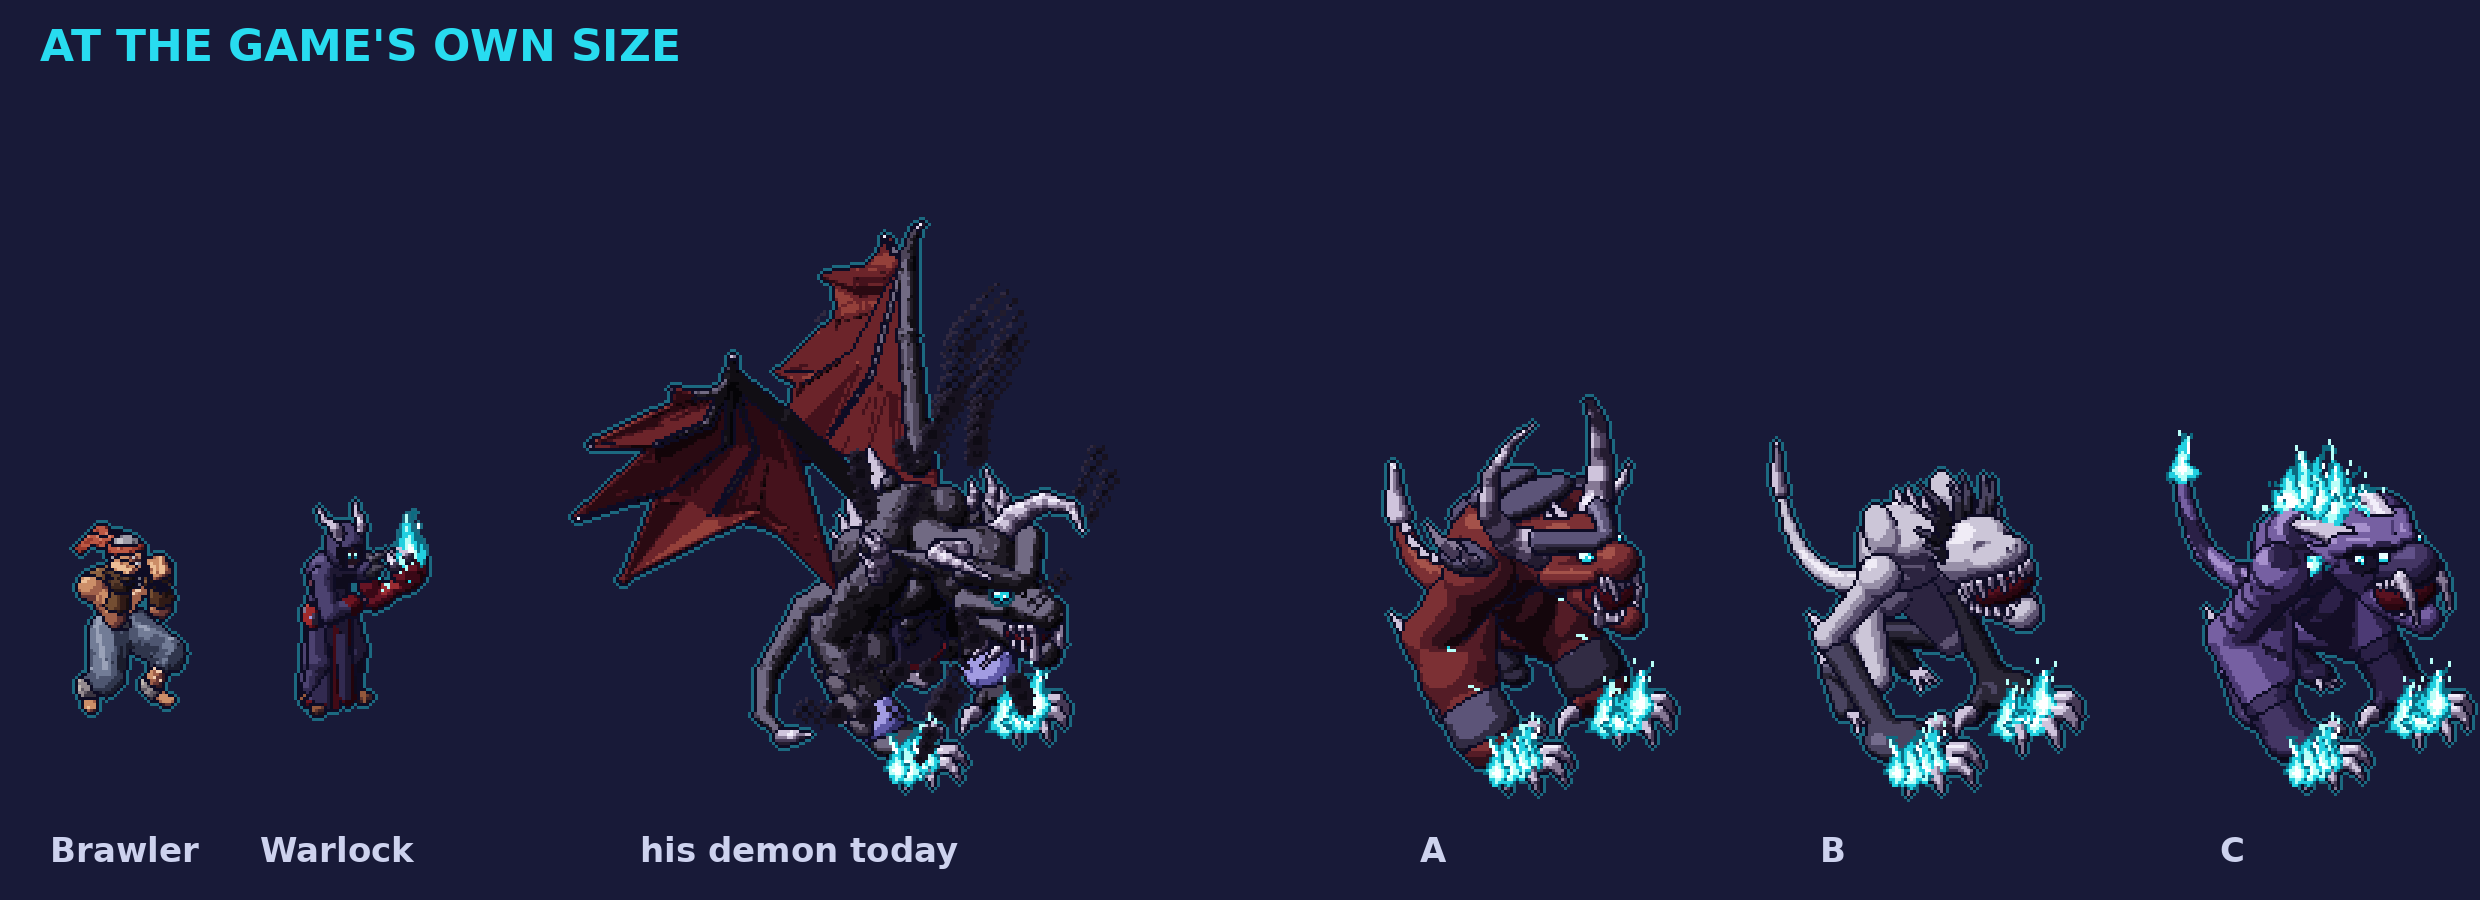
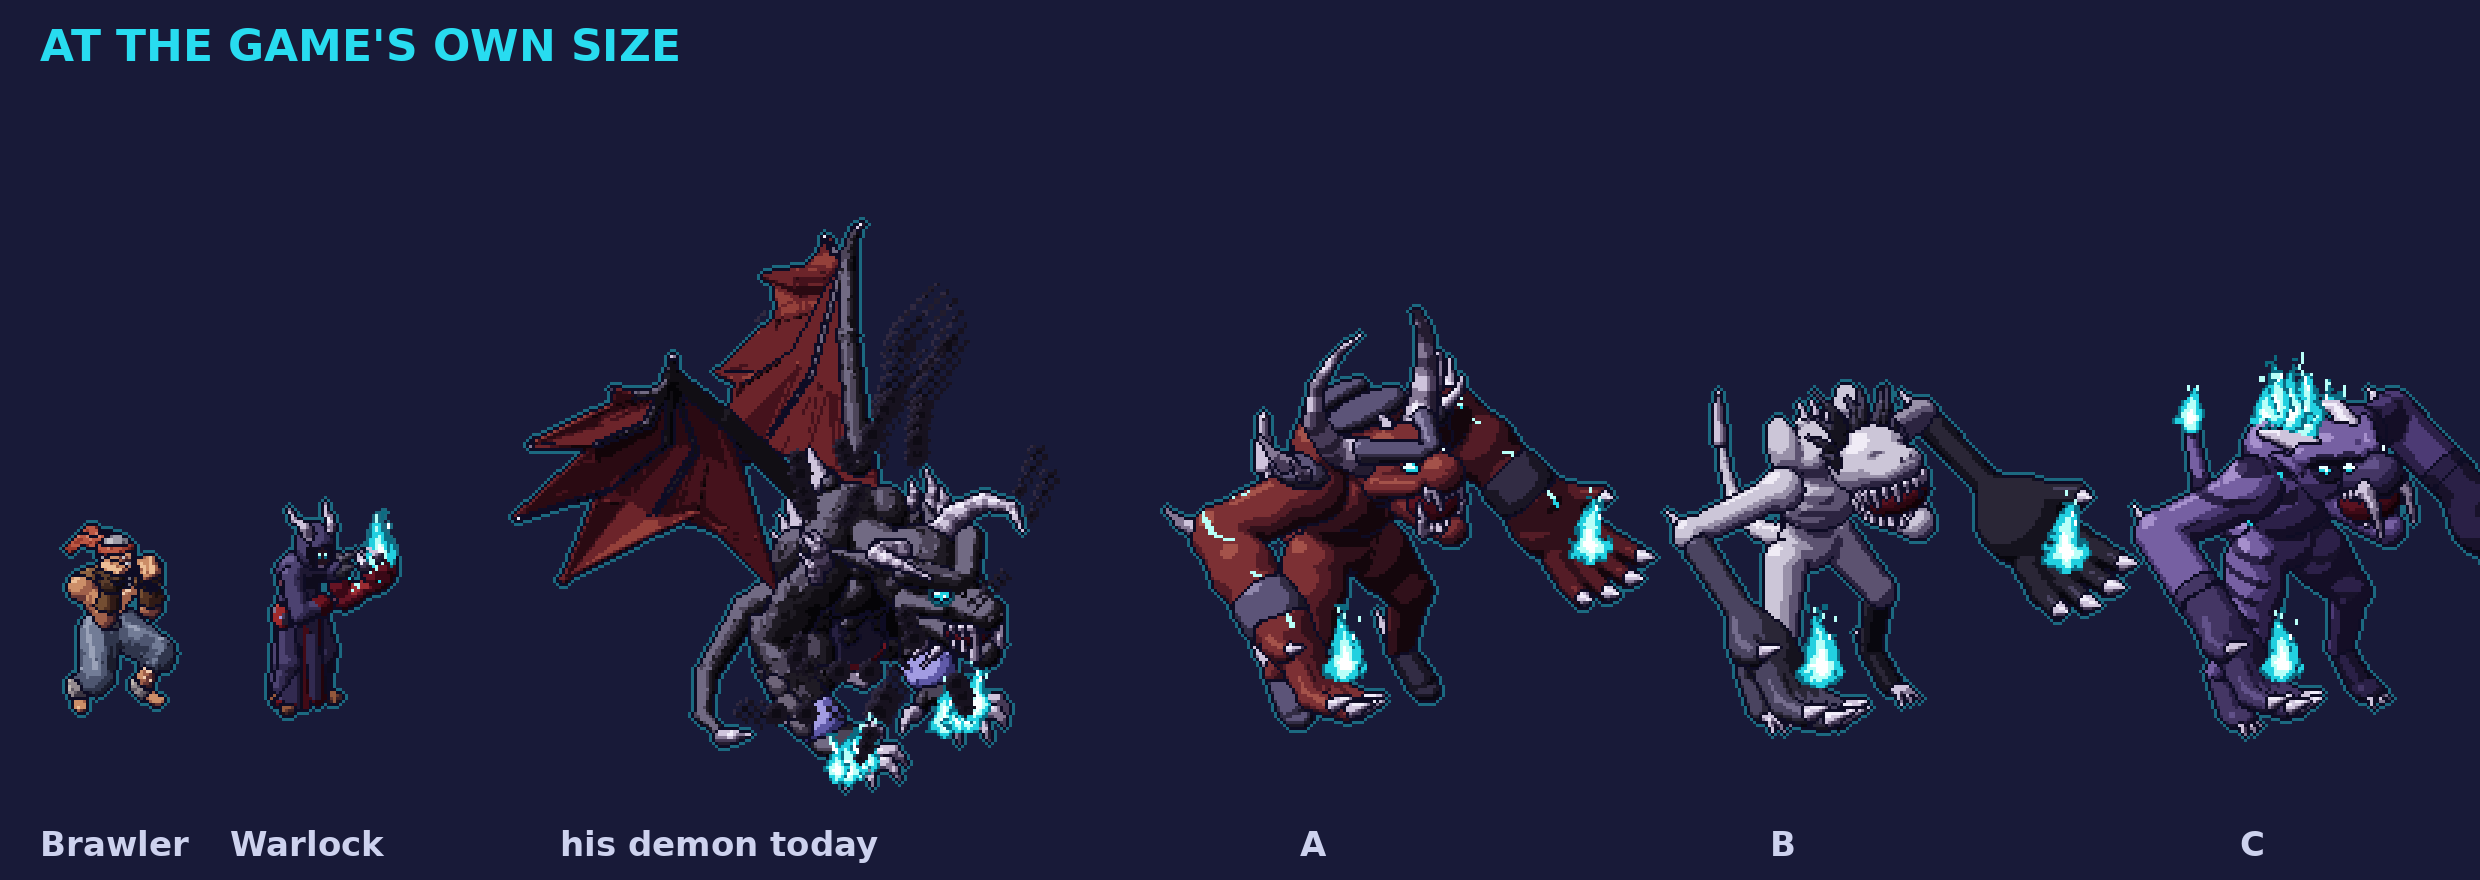
The new demons drawn both ways: up on two legs to fight, down on all fours to run
His words, 11 Nov 2026: "I like that he's on all fours, but really only when he's running around.  Like he's up on two legs to do really wide slashes with his claws, then when running he drops down to all fours like a feral beast". DEMON_UP, a new stance on the game's demon's bones; the pictures made again (docs/mockups/warlock_up2/README.md).

Claude-Session: https://claude.ai/code/session_01JYSqoVCyrBtLKksDvfh6Tj

diff --git a/src/dev/demon_new.ts b/src/dev/demon_new.ts
@@ -12,6 +12,13 @@
 // one he picks: only what is sculpted on the bones is new. What he asked of the demon before is kept on every one: on all
 // fours, a gorilla's long arms, its claws flat on the floor burning with the friend's cyan fire.
 //
+// SHOWN THE FIRST THREE ON ALL FOURS and asked which, his words instead (11 Nov): “I like that he’s on all fours, but really
+// only when he’s running around.  Like he’s up on two legs to do really wide slashes with his claws, then when running he
+// drops down to all fours like a feral beast”. Read as (told him so): standing and fighting it is UP ON TWO LEGS, so its
+// claws can swing in really wide slashes; running it drops to all fours, its run as it is. So each is drawn both ways: up on
+// two legs, its claws out and burning (DEMON_UP, a new stance on the same bones), and running on all fours (the game's run).
+// Of wings, asked whether to keep it without: “Maybe, we’ll see what you come up with”.
+//
 // HOW THEY ARE DRAWN, against what was wrong: a few big forms a body, not dozens of small lumps (the game's demon is some 150
 // solids, its body a tangle of them); each stuff its own colour and three clear tones, light enough to read on a dark floor;
 // the far limbs a tone darker than the near; a head a size bigger, its face made of a few bold marks that read at the game's
@@ -21,13 +28,13 @@ import type { Ramp } from '../art/kit';
 import { CYAN } from '../art/kit';
 import { FRIEND_RIM } from '../art/hero3_knight';
 import type { GameView, PaintView } from '../art/skin';
-import { add, cross, lerp3, mul, norm, solve, sub } from '../art/skeleton';
+import { add, cross, elbowFor, lerp3, mul, norm, solve, standing, sub } from '../art/skeleton';
 import type { Bones, Posed, Rot, Skeleton, V3 } from '../art/skeleton';
 import { Sculpt, draw, onCone } from './sculpt';
 import type { Cone, Drawn, Hit } from './sculpt';
 import { IVORY } from './sculpt_warlock';
 import { demonHand, tone5 } from './sculpt_demon';
-import { DEMON_B, RIG_CANVAS, demonAura, fireBehind } from './sculpt_demon_rig';
+import { DEMON_B, RIG_CANVAS, clawHand, demonAura, fireBehind } from './sculpt_demon_rig';
 
 export type NewDemon = 'pact' | 'pale' | 'mane';
 export const NEW_DEMONS: { id: NewDemon; name: string; says: string }[] = [
@@ -35,6 +42,24 @@ export const NEW_DEMONS: { id: NewDemon; name: string; says: string }[] = [
   { id: 'pale', name: 'B. The Pale Crawler', says: 'gaunt and bone-white, no eyes, a mouth from ear to ear, a crown of black thorns, its arms dipped in soot' },
   { id: 'mane', name: 'C. The Burning Mane', says: 'a dusk-violet beast with four eyes and sabre fangs, a mane of his cyan hellfire down its neck and back' },
 ];
+
+/**
+ * UP ON TWO LEGS (his word, 11 Nov: “he’s up on two legs to do really wide slashes with his claws”): on the game's demon's own
+ * bones. Crouched on its goat legs, one foot before the other; hunched high, its head thrust out; its long arms held out wide
+ * and low, elbows back, its claws open and turned up, burning: ready to swing.
+ */
+export const DEMON_UP: Bones = (() => {
+  const q: Bones = {
+    ...standing(DEMON_B),
+    px: 0, pz: -6, pitch: 1, bend: 7, hunch: 28, shrug: 0.5, faceUp: 2,
+    lhIn: 1, lhx: 14, lhy: 35, lhz: -29,
+    rhIn: 1, rhx: 20, rhy: -34, rhz: -24,
+    lfx: 7, lfy: 4, rfx: -8, rfy: -4, lk: 18, rk: -18,
+  } as Bones;
+  q.le = elbowFor(DEMON_B, q as Posed, true, [-10, 6, 3]);
+  q.re = elbowFor(DEMON_B, q as Posed, false, [-10, -6, 3]);
+  return q;
+})();
 
 const U: V3 = [0, 0, 1];
 const dot = (a: V3, b: V3): number => a[0] * b[0] + a[1] * b[1] + a[2] * b[2];
@@ -82,6 +107,8 @@ interface Kit {
   far: (piece: string) => boolean;
   /** Its tail swung to its left (radians). */
   tail: number;
+  /** Its claws its feet (running on all fours): each drawn as a claw on the floor however high it swings. */
+  paws: boolean;
 }
 
 /** A material whose far limbs are a tone darker (as the heroes' far limbs are), with a painter of its own after that. */
@@ -115,7 +142,11 @@ function spike(k: Kit, mat0: number, piece: string, pts: V3[], r0: number, tag =
   }
 }
 
-/** Its two claws flat on the floor (dev/sculpt_demon.ts demonHand: a hand built as a hand, his word of 24 Oct), and their fires. */
+/**
+ * Its two claws. On the floor (or running on them), flat and spread, his fire under each palm licking out between its fingers
+ * (dev/sculpt_demon.ts demonHand: a hand built as a hand, his word of 24 Oct; the fire his of 27 Oct). Off the floor, up on
+ * two legs: a hand of claws held open (dev/sculpt_demon_rig.ts clawHand), its palm turned up and forward, his fire in it.
+ */
 function claws(k: Kit, hide: number, talon: number, scale: number, out: Built): void {
   const { s, sc } = k;
   const fh = norm([s.hips[0][0], s.hips[0][1], 0], [1, 0, 0]);
@@ -123,10 +154,16 @@ function claws(k: Kit, hide: number, talon: number, scale: number, out: Built): 
     const piece = side > 0 ? 'armL' : 'armR';
     const ha = side > 0 ? s.handL : s.handR;
     const el = side > 0 ? s.elbowL : s.elbowR;
-    const planted = ha[2] < 14;
-    const up = planted ? Math.max(0, ha[2] - 7) : 0;
-    demonHand(sc, hide, talon, piece, ha, el, false, scale, planted ? fh : undefined, planted && side < 0, up);
-    if (!planted) continue;
+    const planted = k.paws || ha[2] < 14;
+    if (!planted) {
+      const palmWay = norm(add(mul(fh, 0.75), add([0, 0, 0.55], mul(cross(U, fh), -side * 0.35))));
+      const tips = clawHand(sc, hide, talon, piece, ha, el, palmWay, 3.1 * scale, side < 0);
+      const mid = mul(tips.reduce((a, b) => add(a, b), [0, 0, 0] as V3), 1 / tips.length);
+      out.flames.push({ p: add(lerp3(ha, mid, 0.55), mul(palmWay, 3.5 * scale)), size: 4.4 * scale, deep: 14 });
+      continue;
+    }
+    const up = Math.max(0, ha[2] - 7);
+    demonHand(sc, hide, talon, piece, ha, el, false, scale, fh, side < 0, up);
     const S = 1.45 * scale;
     const acr = norm(cross(U, fh));
     const thumbW = side < 0 ? acr : mul(acr, -1);
@@ -350,7 +387,7 @@ function noPixelAlone(d: Drawn): void {
 }
 
 /** A new demon at a moment: on the game's demon's bones in a pose, from in front or behind (as the camera truly sees it), turned `turn`. */
-export function newDemonFrame(kind: NewDemon, view: GameView, pose: Bones, turn = 0, t = 2, tail = 0): Drawn {
+export function newDemonFrame(kind: NewDemon, view: GameView, pose: Bones, turn = 0, t = 2, tail = 0, paws = false): Drawn {
   const pv: PaintView = view === 'back' ? 'rear' : view;
   const s = solve(DEMON_B, pose as Posed);
   const sc = new Sculpt();
@@ -362,7 +399,7 @@ export function newDemonFrame(kind: NewDemon, view: GameView, pose: Bones, turn 
     return pv === 'front' ? 0.612 * (q[0] - q[1]) + 0.5 * q[2] : 0.612 * (-q[0] - q[1]) + 0.5 * q[2];
   };
   const farL = nearOf(add(s.pelvis, [0, 20, 6])) < nearOf(s.pelvis);
-  const k: Kit = { sc, s, far: (piece) => (piece.endsWith('L') ? farL : piece.endsWith('R') ? !farL : false), tail };
+  const k: Kit = { sc, s, far: (piece) => (piece.endsWith('L') ? farL : piece.endsWith('R') ? !farL : false), tail, paws };
   const built = kind === 'pact' ? pactInto(k) : kind === 'pale' ? paleInto(k) : maneInto(k);
   const d = draw(sc, pv, RIG_CANVAS.ax, RIG_CANVAS.ay, RIG_CANVAS, undefined, FRIEND_RIM);
   built.flames.forEach((f, i) => fireBehind(d, sc.at(f.p), f.size, t + i * 0.37, f.deep ?? 10));

diff --git a/tools/demon_new_pics.ts b/tools/demon_new_pics.ts
@@ -12,7 +12,7 @@ import type { Px } from '../src/engine/px';
 import { demonMoves, demonPose, drawDemonAt } from '../src/dev/demon_moves';
 import { drawWarlockAt, warlockMoves } from '../src/dev/warlock_moves';
 import { makeVeteranArt } from '../src/art/veteran_art';
-import { newDemonFrame } from '../src/dev/demon_new';
+import { DEMON_UP, newDemonFrame } from '../src/dev/demon_new';
 import type { NewDemon } from '../src/dev/demon_new';
 import type { Bones } from '../src/art/skeleton';
 import { paintWithoutCanvas, paintingOf } from '../tests/helpers';
@@ -70,7 +70,15 @@ const views = (process.argv[4] ?? 'front').split(',') as ('front' | 'back')[];
 /** The moment of its stand the pictures show (a breath, both claws down). */
 const T = 0.3;
 const stand = demonMoves()[0];
-for (const kind of kinds) for (const v of views) save(`${dir}/new_${kind}_${v}.png`, newDemonFrame(kind, v, demonPose(stand.motion, T) as Bones, 0, T, stand.tail ? stand.tail(T) : 0).px);
+const run = demonMoves()[1];
+/** The moment of its run the pictures show (stretched out longest in its leap: 0.6 s of its 0.7 s round). */
+const RUN_T = Number(process.argv[5] ?? 0.6);
+for (const kind of kinds) for (const v of views) {
+  // (up on two legs, his word of 11 Nov; running on all fours, the game's run; and standing on all fours, as first shown)
+  save(`${dir}/new_${kind}_up_${v}.png`, newDemonFrame(kind, v, DEMON_UP, 0, T, 0.25).px);
+  save(`${dir}/new_${kind}_run_${v}.png`, newDemonFrame(kind, v, demonPose(run.motion, RUN_T) as Bones, 0, RUN_T, run.tail ? run.tail(RUN_T) : 0, true).px);
+  save(`${dir}/new_${kind}_${v}.png`, newDemonFrame(kind, v, demonPose(stand.motion, T) as Bones, 0, T, stand.tail ? stand.tail(T) : 0).px);
+}
 // (the game's demon as it is, anchored 180, 276; the Warlock, 84, 132; the Brawler, 18, 60: all two picture pixels a game pixel)
 for (const v of views) save(`${dir}/demon_today_${v}.png`, drawDemonAt(v, stand, T).px);
 save(`${dir}/warlock_front.png`, drawWarlockAt('front', warlockMoves()[0], 0.6).px);

diff --git a/tools/demon_new_pics.py b/tools/demon_new_pics.py
@@ -1,7 +1,7 @@
 # THE NEW DEMONS: THE PICTURES LAID OUT FOR A PHONE HELD SIDEWAYS (the Warlock chat, 11 Nov 2026).
 #   python3 tools/demon_new_pics.py <dir of tools/demon_new_pics.ts> <out dir>
-# Writes three_new_demons.png (each five times as big) and new_demons_at_game_size.png (three screen pixels a picture
-# pixel, as his phone shows the game), each wider than tall (his word of a tall sheet, 9 Nov).
+# Writes new_demons_on_two_legs.png and new_demons_running.png (each four times as big) and new_demons_at_game_size.png
+# (three screen pixels a picture pixel, as his phone shows the game), each wider than tall (his word of a tall sheet, 9 Nov).
 import sys
 from PIL import Image, ImageDraw, ImageFont
 
@@ -12,6 +12,7 @@ f1 = ImageFont.truetype(BOLD, 44)
 f2 = ImageFont.truetype(PLAIN, 30)
 f3 = ImageFont.truetype(BOLD, 34)
 BG = (24, 26, 56, 255)
+PANEL = (30, 33, 68, 255)
 CYAN = (40, 220, 240)
 TEXT = (205, 210, 238)
 NEW = [
@@ -21,34 +22,44 @@ NEW = [
 ]
 load = lambda n: Image.open(f'{src}/{n}.png').convert('RGBA')
 
-# ---- the three, five times as big
-S = 5
-box = (112, 170, 258, 314)
-cw, ch = (box[2] - box[0]) * S, (box[3] - box[1]) * S
-sheet = Image.new('RGBA', (cw * 3 + 40 * 4, ch + 220), BG)
-d = ImageDraw.Draw(sheet)
-for i, (k, title, lines) in enumerate(NEW):
-    x = 40 + i * (cw + 40)
-    d.rectangle([x, 84, x + cw, 84 + ch], fill=(30, 33, 68, 255))
-    sheet.alpha_composite(load(f'new_{k}_front').crop(box).resize((cw, ch), Image.NEAREST), (x, 84))
-    d.text((x, 18), title, font=f1, fill=CYAN)
-    for j, l in enumerate(lines):
-        d.text((x, 84 + ch + 12 + j * 36), l, font=f2, fill=TEXT)
-sheet.convert('RGB').save(f'{out}/three_new_demons.png')
+
+def three(pose, head, name, S=4, lines=True):
+    """The three in one pose, each in a panel of one size, `S` times as big."""
+    ims = [load(f'new_{k}_{pose}_front') for k, _, _ in NEW]
+    bs = [i.getbbox() for i in ims]
+    box = (min(b[0] for b in bs) - 4, min(b[1] for b in bs) - 4, max(b[2] for b in bs) + 4, max(b[3] for b in bs) + 4)
+    cw, ch = (box[2] - box[0]) * S, (box[3] - box[1]) * S
+    foot = 124 if lines else 20
+    sheet = Image.new('RGBA', (cw * 3 + 40 * 4, ch + 150 + foot), BG)
+    d = ImageDraw.Draw(sheet)
+    d.text((40, 16), head, font=f1, fill=CYAN)
+    for i, (k, title, says) in enumerate(NEW):
+        x = 40 + i * (cw + 40)
+        d.rectangle([x, 130, x + cw, 130 + ch], fill=PANEL)
+        sheet.alpha_composite(ims[i].crop(box).resize((cw, ch), Image.NEAREST), (x, 130))
+        d.text((x, 80), title, font=f3, fill=TEXT)
+        if lines:
+            for j, l in enumerate(says):
+                d.text((x, 130 + ch + 12 + j * 36), l, font=f2, fill=TEXT)
+    sheet.convert('RGB').save(f'{out}/{name}.png')
+
+
+three('up', 'UP ON TWO LEGS: STANDING AND FIGHTING', 'new_demons_on_two_legs')
+three('run', 'DOWN ON ALL FOURS: RUNNING', 'new_demons_running', lines=False)
 
 # ---- at the game's own size, beside the game's demon, the Warlock and the Brawler (each on one floor line)
 S = 3
-W, H, floor = 2480, 900, 700
+W, H, floor = 2480, 880, 700
 sh = Image.new('RGBA', (W, H), BG)
 d = ImageDraw.Draw(sh)
 def put(im, ax, ay, x):
     sh.alpha_composite(im.resize((im.width * S, im.height * S), Image.NEAREST), (x - ax * S, floor - ay * S))
-put(load('brawler_front'), 18, 60, 120)
-put(load('warlock_front'), 84, 132, 330)
-put(load('demon_today_front'), 180, 276, 880)
+put(load('brawler_front'), 18, 60, 110)
+put(load('warlock_front'), 84, 132, 300)
+put(load('demon_today_front'), 180, 276, 820)
 for i, (k, _, _) in enumerate(NEW):
-    put(load(f'new_{k}_front'), 180, 276, 1480 + i * 400)
+    put(load(f'new_{k}_up_front'), 180, 276, 1340 + i * 470)
 d.text((40, 20), "AT THE GAME'S OWN SIZE", font=f1, fill=CYAN)
-for x, t in [(50, 'Brawler'), (260, 'Warlock'), (640, 'his demon today'), (1420, 'A'), (1820, 'B'), (2220, 'C')]:
-    d.text((x, floor + 130), t, font=f3, fill=TEXT)
+for x, t in [(40, 'Brawler'), (230, 'Warlock'), (560, 'his demon today'), (1300, 'A'), (1770, 'B'), (2240, 'C')]:
+    d.text((x, floor + 124), t, font=f3, fill=TEXT)
 sh.convert('RGB').save(f'{out}/new_demons_at_game_size.png')

diff --git a/docs/mockups/warlock_up2/README.md b/docs/mockups/warlock_up2/README.md
@@ -51,9 +51,9 @@ THE DEMON: A NEW DESIGN ON THE SAME MOVES.
 
 ## The three new demons shown him (`src/dev/demon_new.ts`; FIRST SCULPTS, FROM IN FRONT ONLY, TO CHOOSE A DIRECTION)
 
-Each on the game's demon's bones in its own stand (0.3 s in), none winged. Drawn against what he ticked: a few big forms a
-body where the game's demon is some 150 small solids; each stuff its own colour, light enough to read on a dark floor; the
-far limbs a tone darker; a bigger head, its face a few bold marks, lifted toward the eye so it is seen from above.
+Each on the game's demon's bones, none winged. Drawn against what he ticked: a few big forms a body where the game's demon
+is some 150 small solids; each stuff its own colour, light enough to read on a dark floor; the far limbs a tone darker; a
+bigger head, its face a few bold marks, lifted toward the eye so it is seen from above.
 
 - **A. THE PACT MADE FLESH**: his demon arm grown over all of him. Old-blood hide (his arm's red, duller); black horn grown
   as armour down its back and over its shoulders, blades of bone off it; two great crescent horns (his hood's two, grown); a
@@ -64,16 +64,35 @@ far limbs a tone darker; a bigger head, its face a few bold marks, lifted toward
   two sabre fangs; short horns swept back; a mane of his cyan hellfire round its neck, down its back and at the tip of its
   tail.
 
+SHOWN FIRST STANDING ON ALL FOURS (the game's stand), asked which to take forward (our pick B) and whether to keep it without
+wings. HIS WORDS INSTEAD, 11 Nov:
+
+- **“I like that he’s on all fours, but really only when he’s running around.  Like he’s up on two legs to do really wide
+  slashes with his claws, then when running he drops down to all fours like a feral beast”**
+- Of wings: **“Maybe, we’ll see what you come up with”**
+
+Read as, and told him so: standing and fighting it is UP ON TWO LEGS, so its claws can swing in really wide slashes; running
+it drops to all fours, its run as it is. So its stand and its claw rakes are to be made again upright (this is HIS change to
+“same moves”: the run stays; what else stands up, Damning, the smoke step's ends, how the change and the burning out end, is
+to be settled with him as each is made, the run's start and stop dropping it down and rearing it up). Wings: tried on the one
+he picks, shown only if they earn their place.
+
+SO EACH IS NOW DRAWN BOTH WAYS: up on two legs (`DEMON_UP`, a new stance on the same bones: crouched on its goat legs, hunched
+high, its arms out wide and low, its claws open and turned up with his fire in each), and running on all fours (the game's
+run, 0.6 s into its 0.7 s round, stretched longest in its leap).
+
 Pictures (`pictures/`, each wider than tall for his phone held sideways):
-- `three_new_demons.png`: the three, five times as big (2350 x 940).
-- `new_demons_at_game_size.png`: the Brawler, the Warlock, his demon today and the three, on one floor line, three screen
-  pixels a picture pixel (2480 x 900).
+- `new_demons_on_two_legs.png`: the three up on two legs, four times as big (2308 x 890).
+- `new_demons_running.png`: the three running on all fours, four times as big (2008 x 806).
+- `new_demons_at_game_size.png`: the Brawler, the Warlock, his demon today and the three up on two legs, on one floor line,
+  three screen pixels a picture pixel (2480 x 880).
 - `demon_today_beside_the_brawler.png`: the demon as it is, from in front and from behind, beside the Brawler and the Warlock.
 
 Made with: `npx tsx tools/demon_new_pics.ts <dir>` then `python3 tools/demon_new_pics.py <dir> docs/mockups/warlock_up2/pictures`.
 
-NOT YET, FOR THE ONE HE PICKS: finished detail; from behind and its eight sides; its moves looked at one by one (its jaws,
-tail and whatever is on its back moving); the change into it; beside the Gate Ward's ground in the game.
+NOT YET, FOR THE ONE HE PICKS: finished detail; from behind and its eight sides; its new stand and wide slashes up on two
+legs, and dropping to all fours to run; its other moves looked at one by one; the change into it; beside the Gate Ward's
+ground in the game.
 
 ## The checks so far
 
